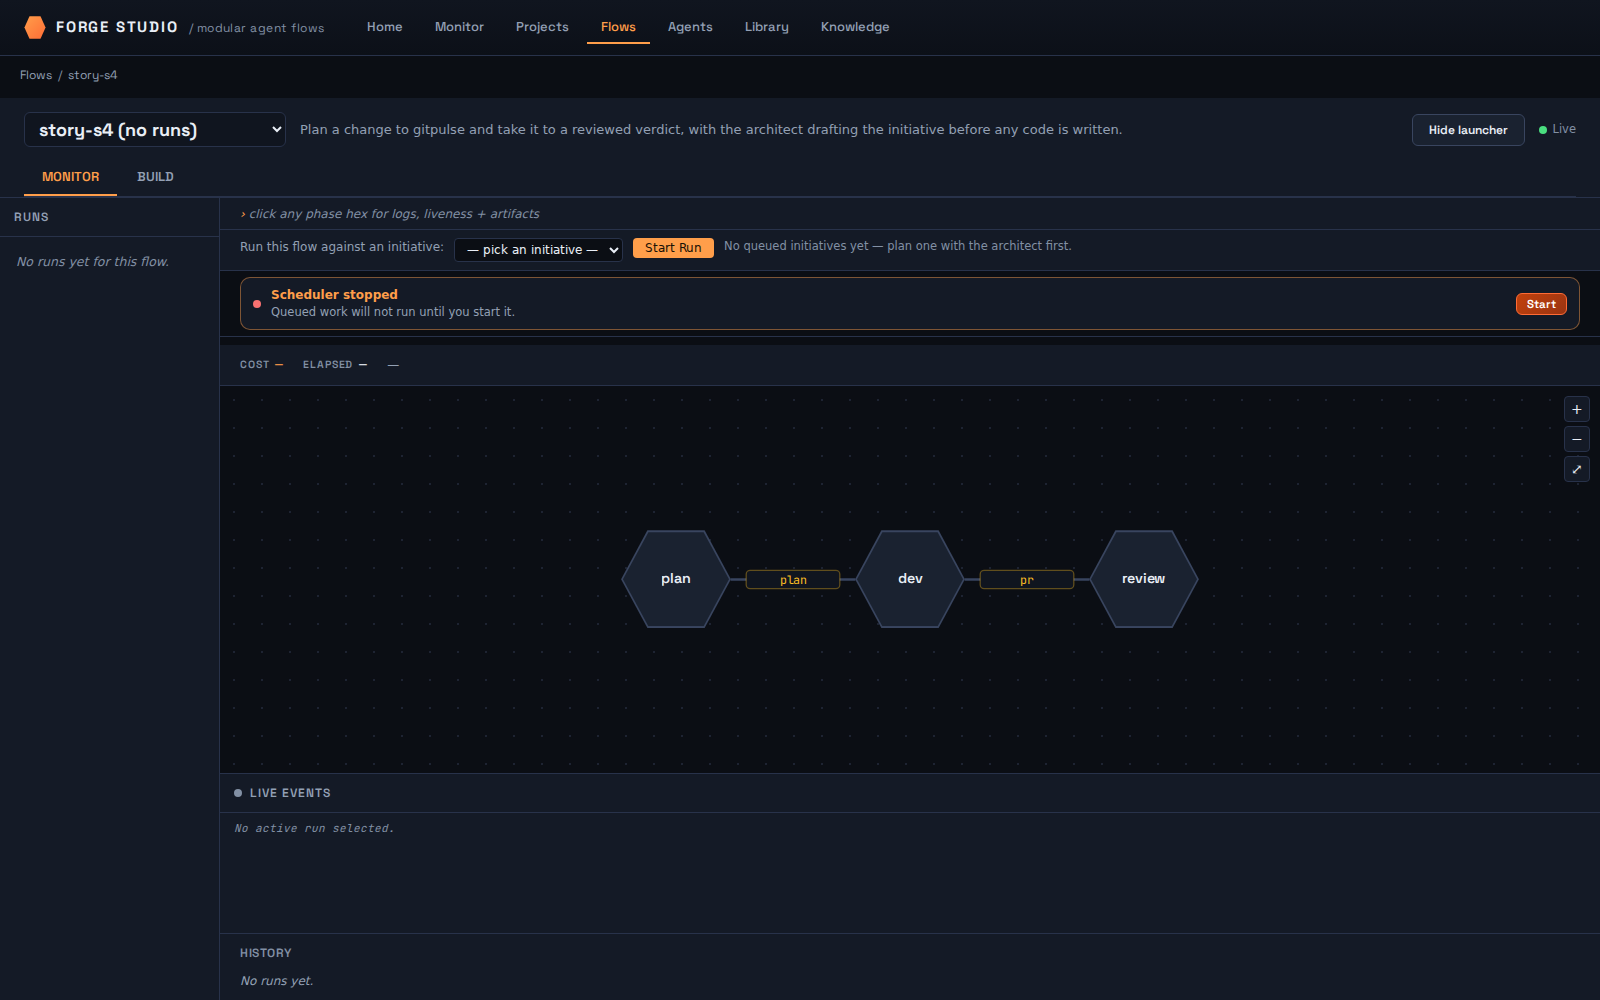
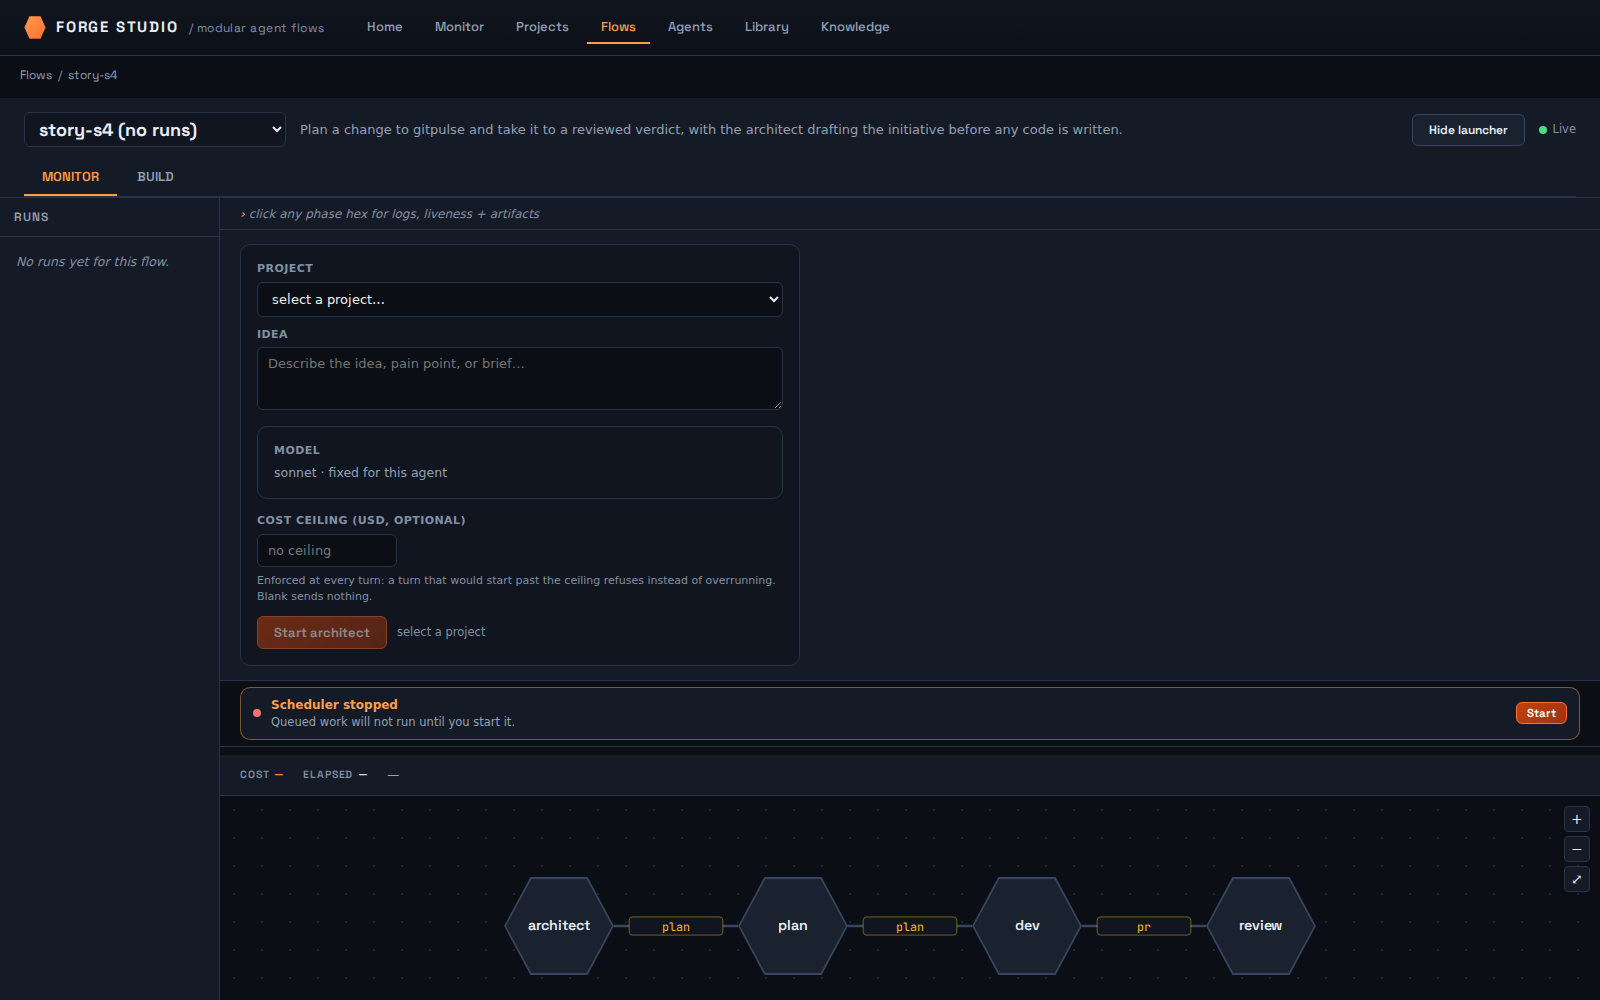
docs(stories): regenerate S4's tutorial, clip frames and gallery row from run 1
The triple output of S4 run 1 (2026-09-05, ruling 152 run 1 of 3). Verdict
`S4: red — 10/12`, up from 5/12: beats 1-10 all green, which is three beats
better than the expectation recorded in `_1.0/stories/S4.md` before the run.

Generated artifacts only — no story file is touched and no hand edit is made to
any of them.

Claude-Session: https://claude.ai/code/session_01LC9JXfbjdMr4awqdtUQmbo

diff --git a/demos/stories/index.html b/demos/stories/index.html
@@ -39,7 +39,7 @@
   </section>
   <section class="story red">
     <h2>S4 — Create a new flow</h2>
-    <p class="verdict red">red · 6/12 beats green</p>
+    <p class="verdict red">red · 10/12 beats green</p>
     <video src="S4/story.webm" autoplay loop muted playsinline></video>
   </section>
   <section class="story red">

diff --git a/docs/tutorials/S4.md b/docs/tutorials/S4.md
@@ -62,11 +62,6 @@ A flow’s goal is not decoration: it is what every agent in it is told it is wo
 
 This is the act the builder exists for. The starter’s "plan" station is a stub; this flow wants the real Architect in front of it, so that a run can begin from an idea instead of from an initiative somebody already planned. Four stations now, three edges — and the flow has stopped being a copy of the starter.
 
-> **This step is RED — not verified working.** The run asserted state the product did not show:
->
-> - data-node-count: expected "4", got "3"
-> - data-edge-count: expected "3", got "2"
-
 ![Drag the "architect" agent out of the palette onto the canvas, and wire it into "plan"](frames/04-drag-the-architect-agent-out-of-the-pale.png)
 
 <details><summary>What you should see</summary>
@@ -74,8 +69,8 @@ This is the act the builder exists for. The starter’s "plan" station is a stub
 - `data-page` is `flow-monitor`
 - `data-flow-id` is `new`
 - `data-component` is `flow-builder-canvas`
-- `data-node-count` is `3`
-- `data-edge-count` is `2`
+- `data-node-count` is `4`
+- `data-edge-count` is `3`
 
 </details>
 
@@ -125,10 +120,6 @@ A saved flow is not necessarily a runnable one. This is the check the operator m
 
 How a flow is launched follows from what its first station is. This one begins with the Architect, so forge asks for an idea rather than for an initiative someone has already planned — which is what makes it startable against a project that has never been planned against before.
 
-> **This step is RED — not verified working.** The run asserted state the product did not show:
->
-> - data-kickoff-kind: expected "idea", got "generic"
-
 ![Open the launcher](frames/08-open-the-launcher.png)
 
 <details><summary>What you should see</summary>
@@ -136,7 +127,7 @@ How a flow is launched follows from what its first station is. This one begins w
 - `data-page` is `flow-monitor`
 - `data-flow-id` is `story-s4`
 - `data-section` is `flow-kickoff`
-- `data-kickoff-kind` is `generic`
+- `data-kickoff-kind` is `idea`
 
 </details>
 
@@ -144,19 +135,14 @@ How a flow is launched follows from what its first station is. This one begins w
 
 A flow built ten minutes ago is now dispatching a real Agent against a real repository, so the operator sets the ceiling before starting rather than discovering the bill afterwards. Pressing Start mints a session and shows its id on the page the operator is standing on.
 
-> **This step is RED — not verified working.** The run asserted state the product did not show:
->
-> - could not fill [data-field="project"] with "gitpulse": locator.evaluate: Timeout 5000ms exceeded.
-Call log:
-[2m  - waiting for locator('[data-field="project"]').first()[22m
-. The control is absent, disabled, obscured or not yet rendered.
-
 ![Point the flow at gitpulse, describe the first piece of work, cap what the run may spend, and press "Start architect"](frames/09-point-the-flow-at-gitpulse-describe-the-.png)
 
 <details><summary>What you should see</summary>
 
 - `data-page` is `flow-monitor`
 - `data-flow-id` is `story-s4`
+- `data-section` is `new-idea`
+- `data-architect-session-id` is `2026-09-05T05-52-07-edbb779c`
 
 </details>
 
@@ -164,17 +150,13 @@ Call log:
 
 Monitor is the one surface that answers "what is running, and what is stuck". One thing is live on it — a run of a flow that did not exist at the start of this story, against a project forge has never planned against. That is the whole of S4 in a single number.
 
-> **This step is RED — not verified working.** The run asserted state the product did not show:
->
-> - data-monitor-live: expected "1", got "0"
-
 ![While it works, check Monitor](frames/10-while-it-works-check-monitor.png)
 
 <details><summary>What you should see</summary>
 
 - `data-page` is `monitor`
 - `data-page-ready` is `true`
-- `data-monitor-live` is `0`
+- `data-monitor-live` is `1`
 - `data-fetch-status` is `ok`
 
 </details>
@@ -185,9 +167,18 @@ The session is the same shared surface every kind of agent run uses, so a flow t
 
 > **This step is RED — not verified working.** The run asserted state the product did not show:
 >
-> - route "/sessions/architect/<architectSessionId>" needs <architectSessionId>, which no earlier beat bound. A beat binds a segment by expecting `<name>` for a data-* key the product mints.
+> - data-session-phase: expected "awaiting-verdict", got "interviewing"
 
 ![Open the session from Monitor and wait for the Architect to finish drafting](frames/11-open-the-session-from-monitor-and-wait-f.png)
+
+<details><summary>What you should see</summary>
+
+- `data-page` is `session`
+- `data-page-ready` is `true`
+- `data-session-kind` is `architect`
+- `data-session-phase` is `interviewing`
+
+</details>
 
 ## 12. Open the plan and stand at the verdict
 
@@ -195,15 +186,9 @@ This is where S4 ends: a flow the operator assembled, linted and launched has pr
 
 > **This step is RED — not verified working.** The run asserted state the product did not show:
 >
-> - could not press [data-action="open-plan"]: locator.click: Timeout 5000ms exceeded.
+> - could not press [data-action="open-plan"]: locator.click: Timeout 15000ms exceeded.
 Call log:
 [2m  - waiting for locator('[data-action="open-plan"]').first()[22m
-. The control is absent, disabled, obscured or not yet rendered.
+. no element carries that handle.
 
 ![Open the plan and stand at the verdict](frames/12-open-the-plan-and-stand-at-the-verdict.png)
-
-<details><summary>What you should see</summary>
-
-- `data-fetch-status` is `ok`
-
-</details>
